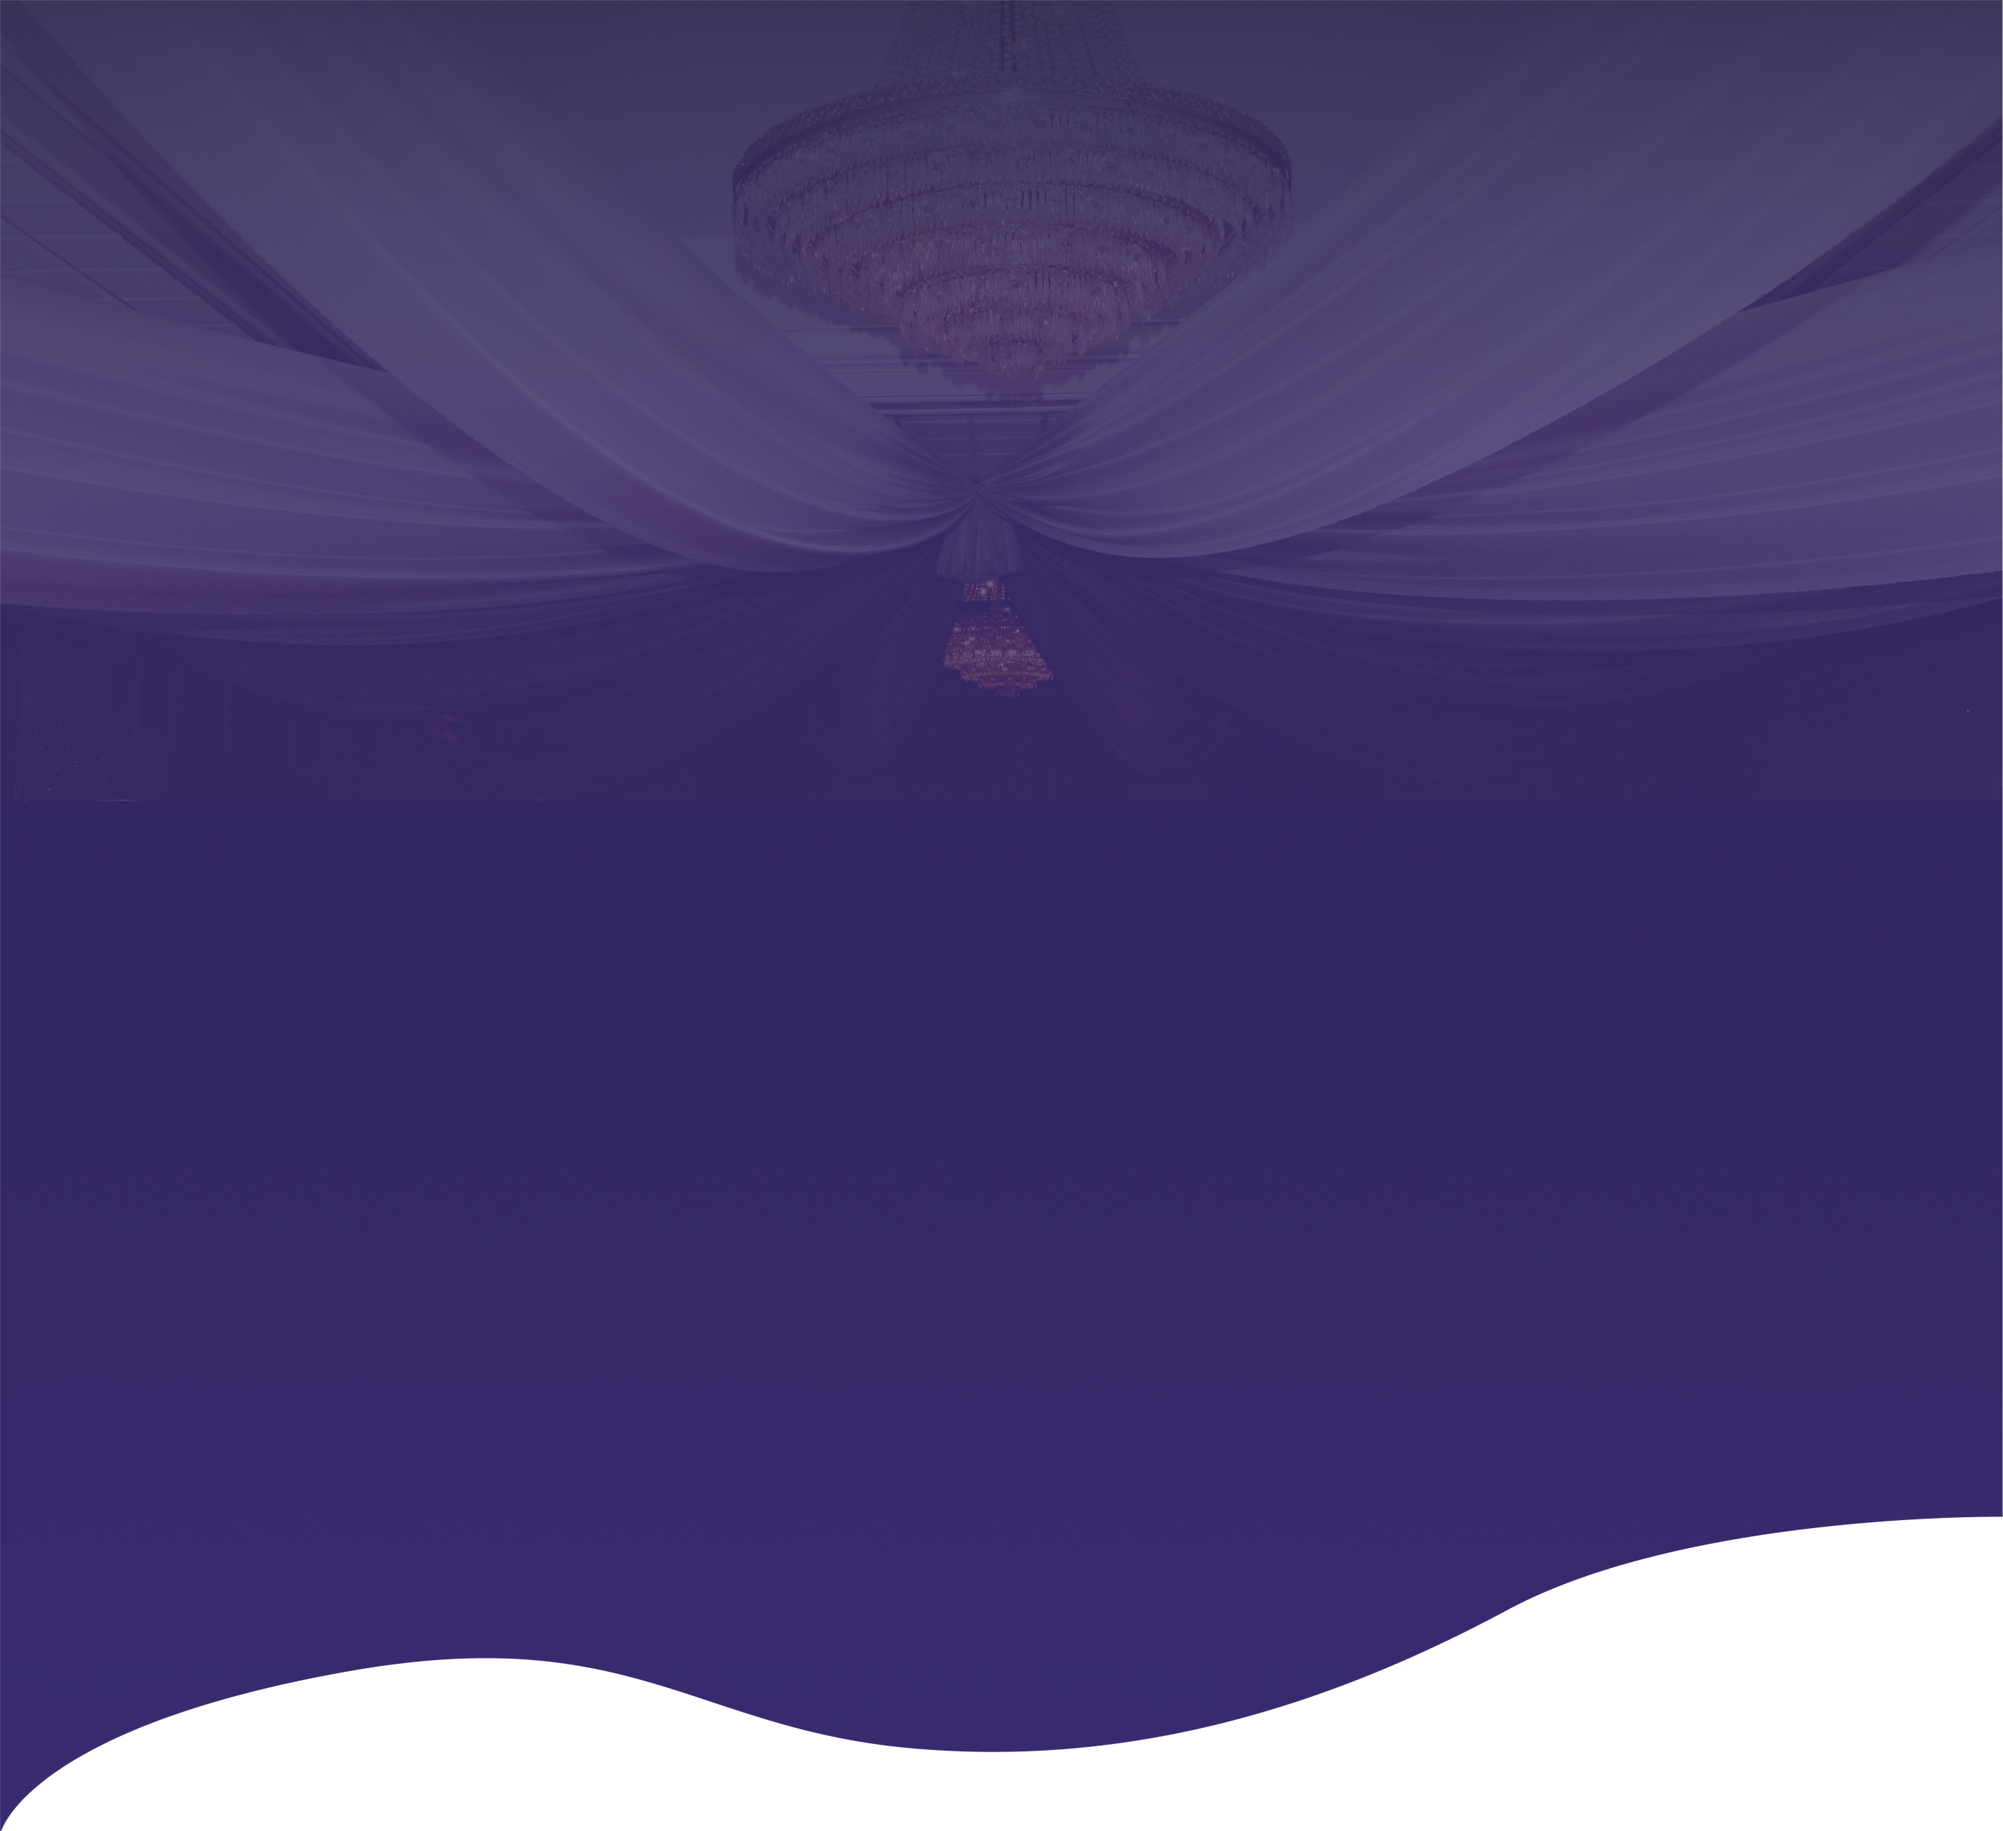
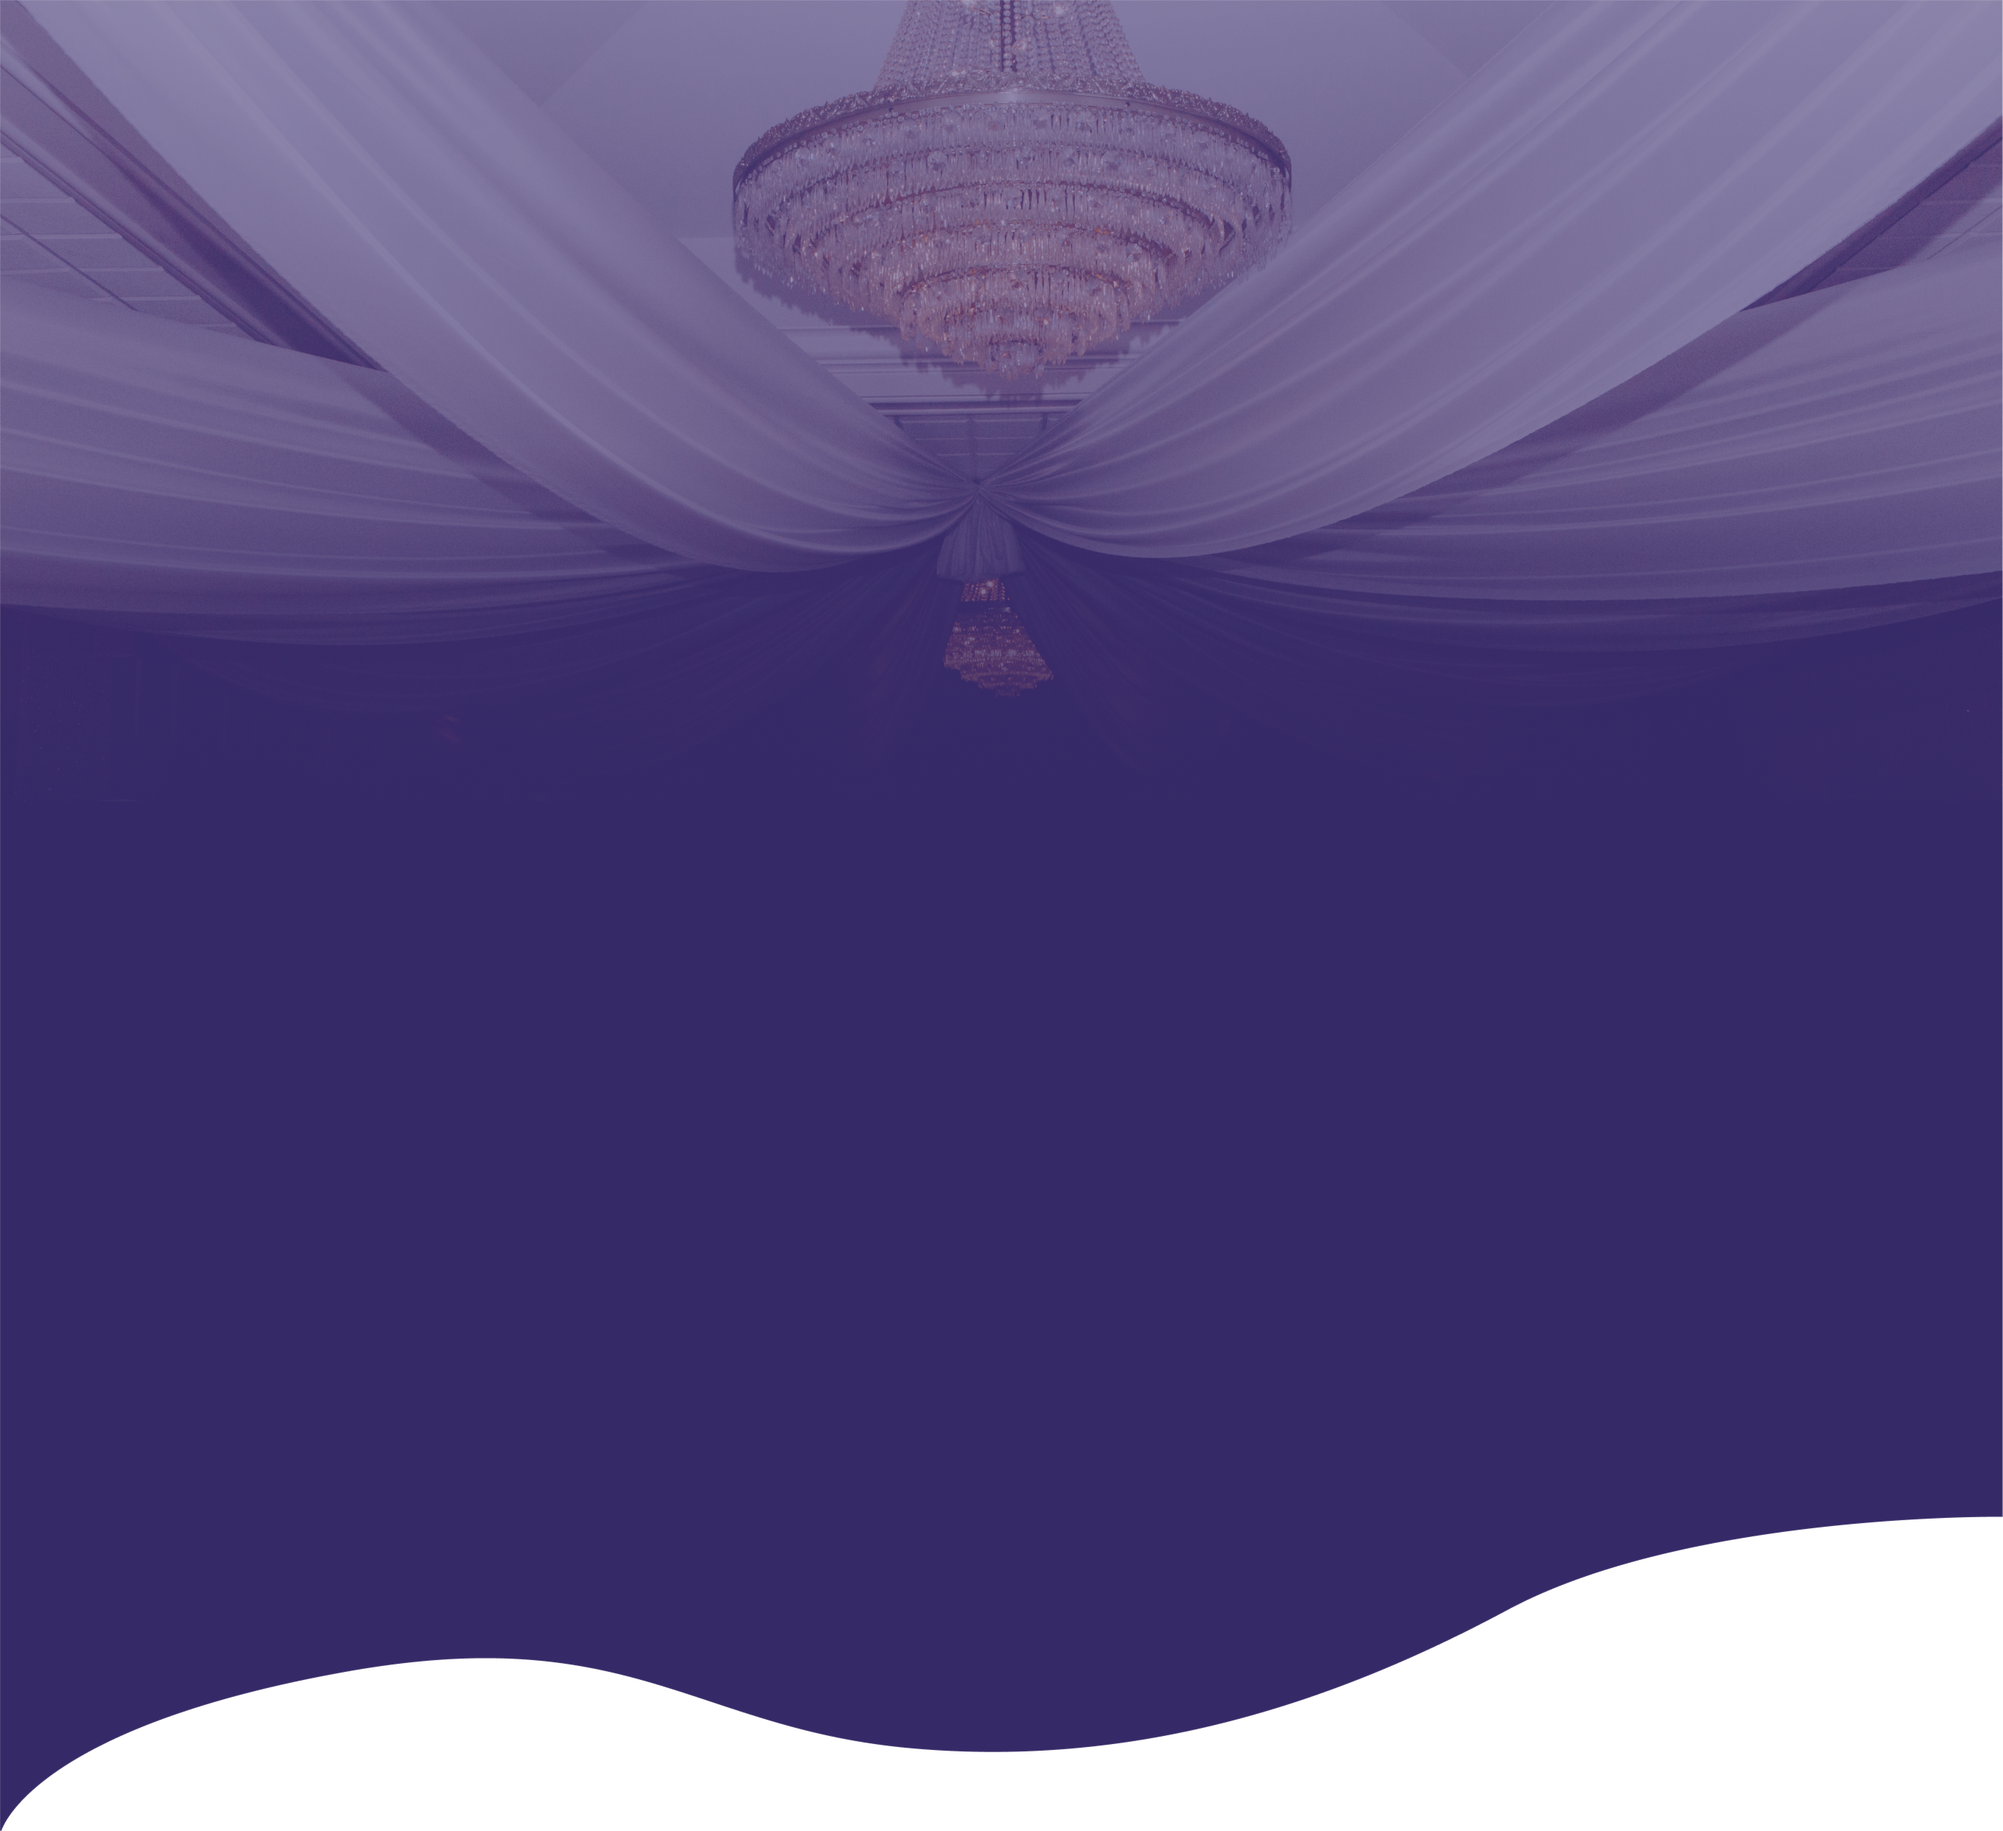
changed background image

Changed region(s): [[0.0, 0.0, 1.0, 0.2788]]

diff --git a/assets/css/index4.css b/assets/css/index4.css
@@ -30,7 +30,7 @@
   left: 0;
   width: 100%;
   height: 115vh;
-  background: url('../img/hero-background-chandelier.png') top center / contain no-repeat;
+  background: url('../img/hero-background-chandelier-v2.png') top center / contain no-repeat;
 }
 
 @media (max-width: 1430px) {
@@ -234,20 +234,10 @@ body {
    separate instances of the same animation, started together on load, so
    without this it would otherwise show through as a second, smaller copy
    playing simultaneously underneath/beside the full-screen one. */
-/* transform: the box itself is already centered on the page, but the
-   artwork inside it isn't centered within its own viewBox — the burst
-   rays cluster on the left half (x: 0-203 of 364) and overlap the start
-   of the wordmark, while the wordmark's tail ("...GANZA") trails off
-   alone on the right with nothing to balance it, so the graphic's visual
-   weight sits well left of the box's geometric center. Nudging the box
-   right by that same ~7.6% (the measured offset between the artwork's
-   area-weighted centroid and the viewBox center) makes the logo *look*
-   centered on the page instead of just being centered as an empty box. */
 .ee-hero .ee-hero__logo-anim {
   width: 610px;
   height: 416px;
   opacity: 0;
-  transform: translateX(7.6%);
   transition: opacity 0.8s ease;
 }
 
@@ -314,6 +304,35 @@ body {
 @media (prefers-reduced-motion: reduce) {
   .ee-hero-intro { display: none; }
   .ee-hero__content { opacity: 1; transform: none; transition: none; }
+}
+
+/* Drop shadow on the nav's own logo/links and the hero's logo/animation/
+   heading, but only while the nav is still in its transparent/dark state
+   (over the indigo topbg panel) — .ee-nav--light ~ .ee-hero-stage and
+   .ee-nav--light .ee-nav__* below clear it back to none the moment
+   main.js's scroll listener (see the inline script at the bottom of this
+   file) switches the nav to its opaque white state, where a shadow would
+   just read as clutter against a plain background instead of lifting the
+   text/graphics off the dark photo behind them. */
+.ee-nav__logo-img,
+.ee-nav__menu > a,
+.ee-nav__dropdown > a {
+  filter: drop-shadow(0 2px 5px #352967);
+}
+
+.ee-hero__logo-anim,
+.ee-hero-intro__anim,
+.ee-hero__heading {
+  filter: drop-shadow(0 4px 12px #352967);
+}
+
+.ee-nav--light .ee-nav__logo-img,
+.ee-nav--light .ee-nav__menu > a,
+.ee-nav--light .ee-nav__dropdown > a,
+.ee-nav--light ~ .ee-hero-stage .ee-hero__logo-anim,
+.ee-nav--light ~ .ee-hero-stage .ee-hero-intro__anim,
+.ee-nav--light ~ .ee-hero-stage .ee-hero__heading {
+  filter: none;
 }
 
 /* Below 1150px the burst was landing right at (almost under) the nav bar,
